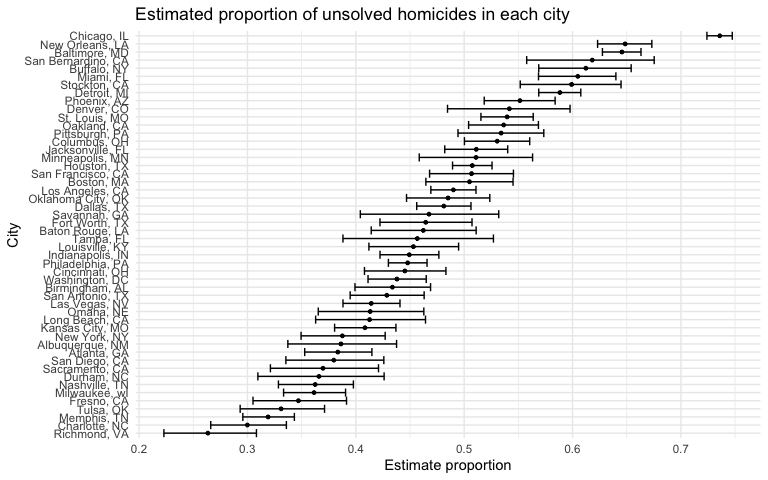
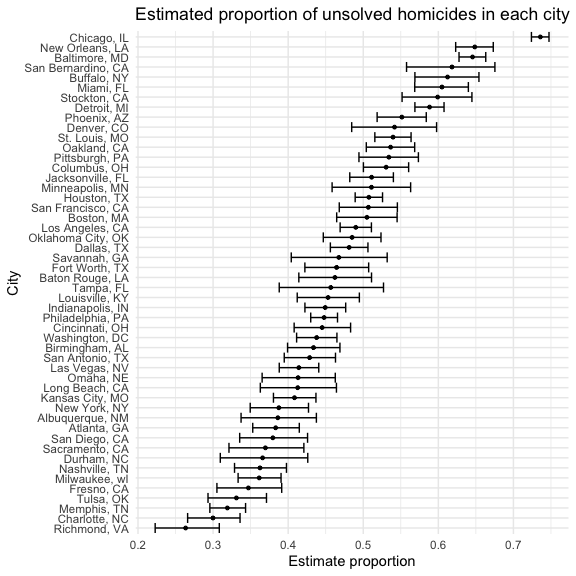
adjust the output figure format

diff --git a/p8105_hw5_hs3393.md b/p8105_hw5_hs3393.md
@@ -9,8 +9,8 @@ library(ggplot2)
 library(patchwork)
 
 knitr::opts_chunk$set(
-  fig.width = 8,
-  out.width = "70%"
+  fig.width = 6,
+  out.width = "80%"
 )
 
 theme_set(theme_minimal() + theme(legend.position = "bottom"))
@@ -25,6 +25,65 @@ scale_fill_discrete = scale_fill_viridis_d
 ```
 
 ## Problem 1
+
+The code chunk below imports the data in individual spreadsheets
+contained in `./data/data_prob1/`. To do this, I create a dataframe that
+includes the list of all files in that directory and the complete path
+to each file. As a next step, I `map` over paths and import data using
+the `read_csv` function. (Note: this step is so useful in reading
+multiple files) Finally, I `unnest` the result of `map`.
+
+``` r
+full_df = 
+  tibble(
+    files = list.files("data/data-prob1/"),
+    path = str_c("data/data-prob1/", files)
+  ) %>% 
+  mutate(data = map(path, read_csv)) %>% 
+  unnest()
+```
+
+    ## Warning: `cols` is now required when using unnest().
+    ## Please use `cols = c(data)`
+
+The result of the previous code chunk isn’t tidy – data are wide rather
+than long, and some important variables are included as parts of others.
+The code chunk below tides the data using string manipulations on the
+file, converting from wide to long, and selecting relevant variables.
+
+``` r
+tidy_df = 
+  full_df %>% 
+  mutate(
+    files = str_replace(files, ".csv", ""),
+    group = str_sub(files, 1, 3)) %>% 
+  pivot_longer(
+    week_1:week_8,
+    names_to = "week",
+    values_to = "outcome",
+    names_prefix = "week_") %>% 
+  mutate(week = as.numeric(week)) %>% 
+  select(group, subj = files, week, outcome)
+```
+
+Finally, the code chunk below creates a plot showing individual data,
+faceted by group.
+
+``` r
+tidy_df %>% 
+  ggplot(aes(x = week, y = outcome, group = subj, color = group)) + 
+  geom_point() + 
+  geom_path() + 
+  facet_grid(~group)
+```
+
+<img src="p8105_hw5_hs3393_files/figure-gfm/unnamed-chunk-3-1.png" width="80%" />
+
+This plot suggests high within-subject correlation – subjects who start
+above average end up above average, and those that start below average
+end up below average. Subjects in the control group generally don’t
+change over time, but those in the experiment group increase their
+outcome in a roughly linear way.
 
 ## Problem 2
 
@@ -114,7 +173,7 @@ casenum %>%
   labs(y = "Estimate proportion", x = "City", title = "Estimated proportion of unsolved homicides in each city")
 ```
 
-<img src="p8105_hw5_hs3393_files/figure-gfm/prop.test for every city-1.png" width="70%" />
+<img src="p8105_hw5_hs3393_files/figure-gfm/prop.test for every city-1.png" width="80%" />
 
 ## Problem 3
 
@@ -145,7 +204,7 @@ sim_df %>%
 
     ## `geom_smooth()` using formula 'y ~ x'
 
-<img src="p8105_hw5_hs3393_files/figure-gfm/simulation-1.png" width="70%" />
+<img src="p8105_hw5_hs3393_files/figure-gfm/simulation-1.png" width="80%" />
 
 As the true value of $\mu$ increases, the power of test also increases.
 
@@ -182,7 +241,7 @@ plot1 + plot2
     ## `geom_smooth()` using formula 'y ~ x'
     ## `geom_smooth()` using formula 'y ~ x'
 
-<img src="p8105_hw5_hs3393_files/figure-gfm/simulation2-1.png" width="70%" />
+<img src="p8105_hw5_hs3393_files/figure-gfm/simulation2-1.png" width="80%" />
 
 The average of $\hat{\mu}$ in samples for which the null was rejected is
 not approximately equal to the true $\mu$ when the true $\mu$ is close
